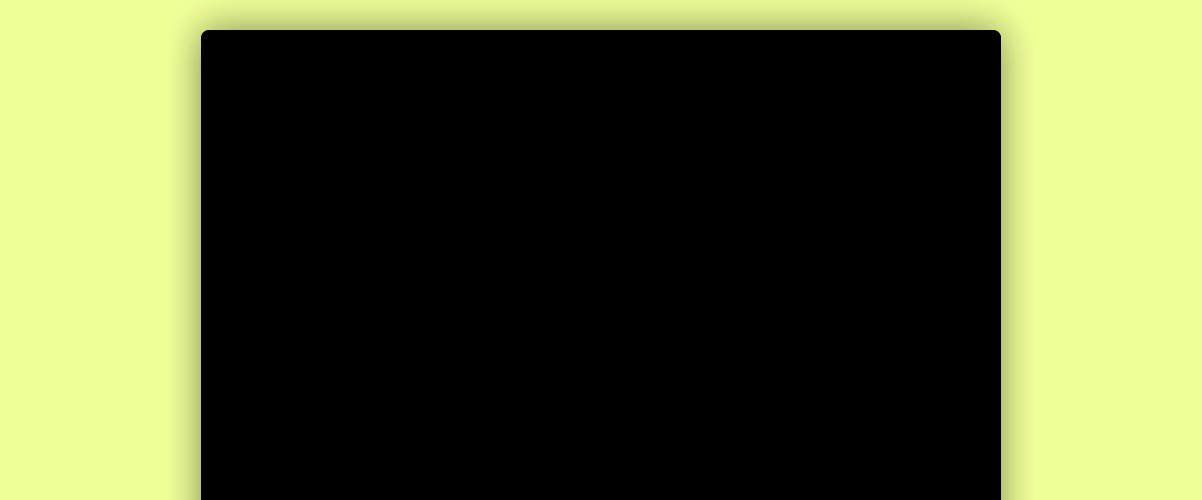
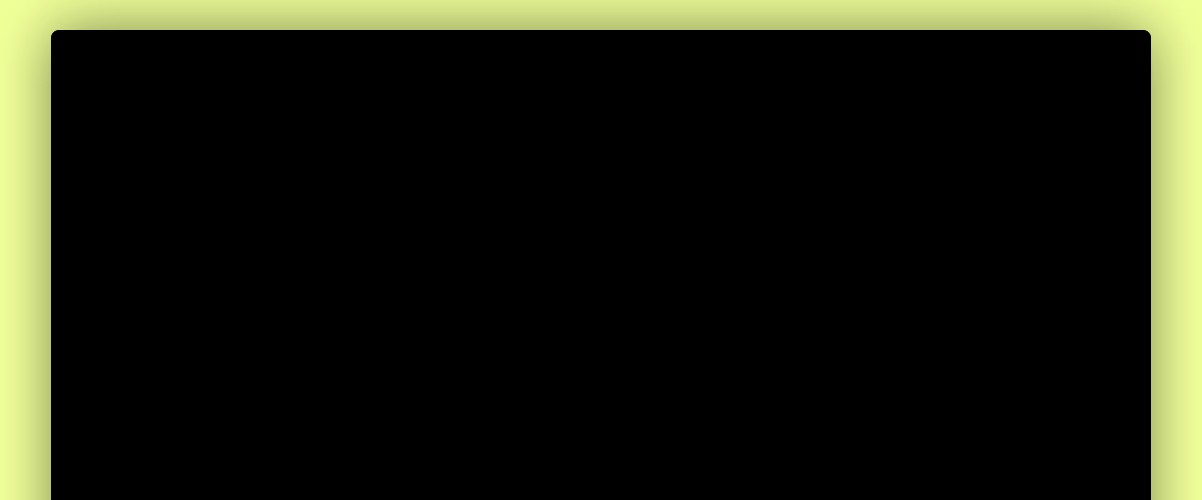
Layout.

Changed region(s): [[0.0, 0.0, 0.1847, 1.0], [0.8311, 0.0, 0.985, 1.0]]

diff --git a/app/assets/stylesheets/style.css b/app/assets/stylesheets/style.css
@@ -1,4 +1,3 @@
-
 /* 
 ----------------------------------------------------------------------------------------
 
@@ -10,14 +9,12 @@ TO REMOVE THE LINK, PLEASE MAKE A 10 DOLLARS DONATION at www.dotemplate.com/#don
 ----------------------------------------------------------------------------------------
 */
 
-
 html {
 	background: #EFFF98;
 	margin:0 0 0 -1px;
 	padding:0;	
 	overflow-Y: scroll;
 }
-
 
 body {
 	padding:0;
@@ -26,8 +23,7 @@ body {
 	width:100%;	
 }
 
-
-					body {
+body {
 	color:#D0D0D0;
 	font-family: 'Trebuchet MS', sans-serif;
 	font-size: 13px;
@@ -48,14 +44,12 @@ h1 {
 	clear:both;
 }
 
-
 h2 {
 	color:#efff98;
 	font-size:20px;
 	margin:20px 0 10px 0;
 	clear:both;
 }
-
 
 h3 {
 	color:#efff98;
@@ -64,34 +58,29 @@ h3 {
 	clear:both;
 }
 
-
-
 a:link, a:visited {
 	color:#e0ff31;
 	text-decoration:none;
 }
-
 
 a:hover {
 	color:#FFFFFF;
 	text-decoration:underline;
 }
 	
-					
 #wrapper {
 	background: transparent url( images/css/page-vbg.jpg ) repeat-y scroll 50% 0px;
 	margin:0 auto ;
 	width:100%;
 }
 
-					body {
+body {
 	background-color:#EFFF98;
 }
 
 #wrapper {
 	border-top: 1px solid #ffffca;
 }
-	
 
 #bg {
 	margin:0 auto;
@@ -102,22 +91,13 @@ a:hover {
 	background-position: center top ;
 }
 
-
-
-
-
 #page {
 	background: transparent url( images/css/page-bg.jpg ) no-repeat center top;
 }
 
-
-					
-
-
-
 #container {
 	margin:0 auto;
-	width:800px;
+	width:1100px;
 }
 
 #banner {
@@ -126,22 +106,16 @@ a:hover {
 	width:100%;
 }
 
-
 #content {
-	width:800px;
+	width:1100px;
 	margin:0 auto ;
 	text-align:left;
 	min-height:800px;
 }
 
-
 #content p {
 	text-align:justify;
 }
-
-	
-
-
 
 #footerWrapper {
 	margin:0 auto;
@@ -150,44 +124,33 @@ a:hover {
 	background:transparent url( images/css/footerWrapper-bg.jpg ) no-repeat scroll center top;
 }
 
-
 #footer {
 	margin:0 auto;
 	padding:0;
-	width:800px;
+	width:1100px;
 	height:80px;
 }
 
-
-					#footer {
+#footer {
 	text-align:center;
 }
 
-	
-	
-					
-
-
 #left {
-	width:120px;
-	padding:20px 20px 20px 20px;
+	width:110px;
+	padding:15px 15px 15px 15px;
 	float:left;
 }
-
 
 #center {
-	width:600px;
-	padding:10px 20px 20px 20px;
+	width:900px;
+	padding:10px 10px 10px 10px;
 	float:left;
 }
 
- 
 #content p {
 	margin-top:10px;
 	text-align:justify;
 }
-
-
 										
 #sidebar ul.vmenu {
 	list-style: none;
@@ -198,7 +161,6 @@ a:hover {
 	border-top: 1px solid #203020;
 }
 
-
 #sidebar ul.vmenu li {
 	list-style: none;
 	padding: 4px 0 4px 0px;
@@ -206,31 +168,21 @@ a:hover {
 	border-bottom: 1px solid #203020;
 }
 
-
-
 #sidebar ul.vmenu li a {
 	text-decoration: none;
 	color:#efff98;
 }
 
-
 #sidebar ul.vmenu li a:hover {
 	color:#FFFFFF;
 }
 
-
 #sidebar ul.vmenu ul { margin: 0 0 0 5px; padding: 0; }
 #sidebar ul.vmenu ul li { border: none; }
-
-
-		
-	
-
 
 a img {
 	border:none;
 } 
-
 
 .clear {
 	clear: both;
@@ -239,4 +191,13 @@ a img {
 	visibility: hidden;
 	width: 0;
 	height: 0;
+}
+
+#welcome table tbody tr th,
+#welcome table tbody tr td {
+	border-color: #FFFFFF;
+	border-style: solid;
+	border-width: 1px;
+	padding: 10px; 
+	text-align: center;
 }
